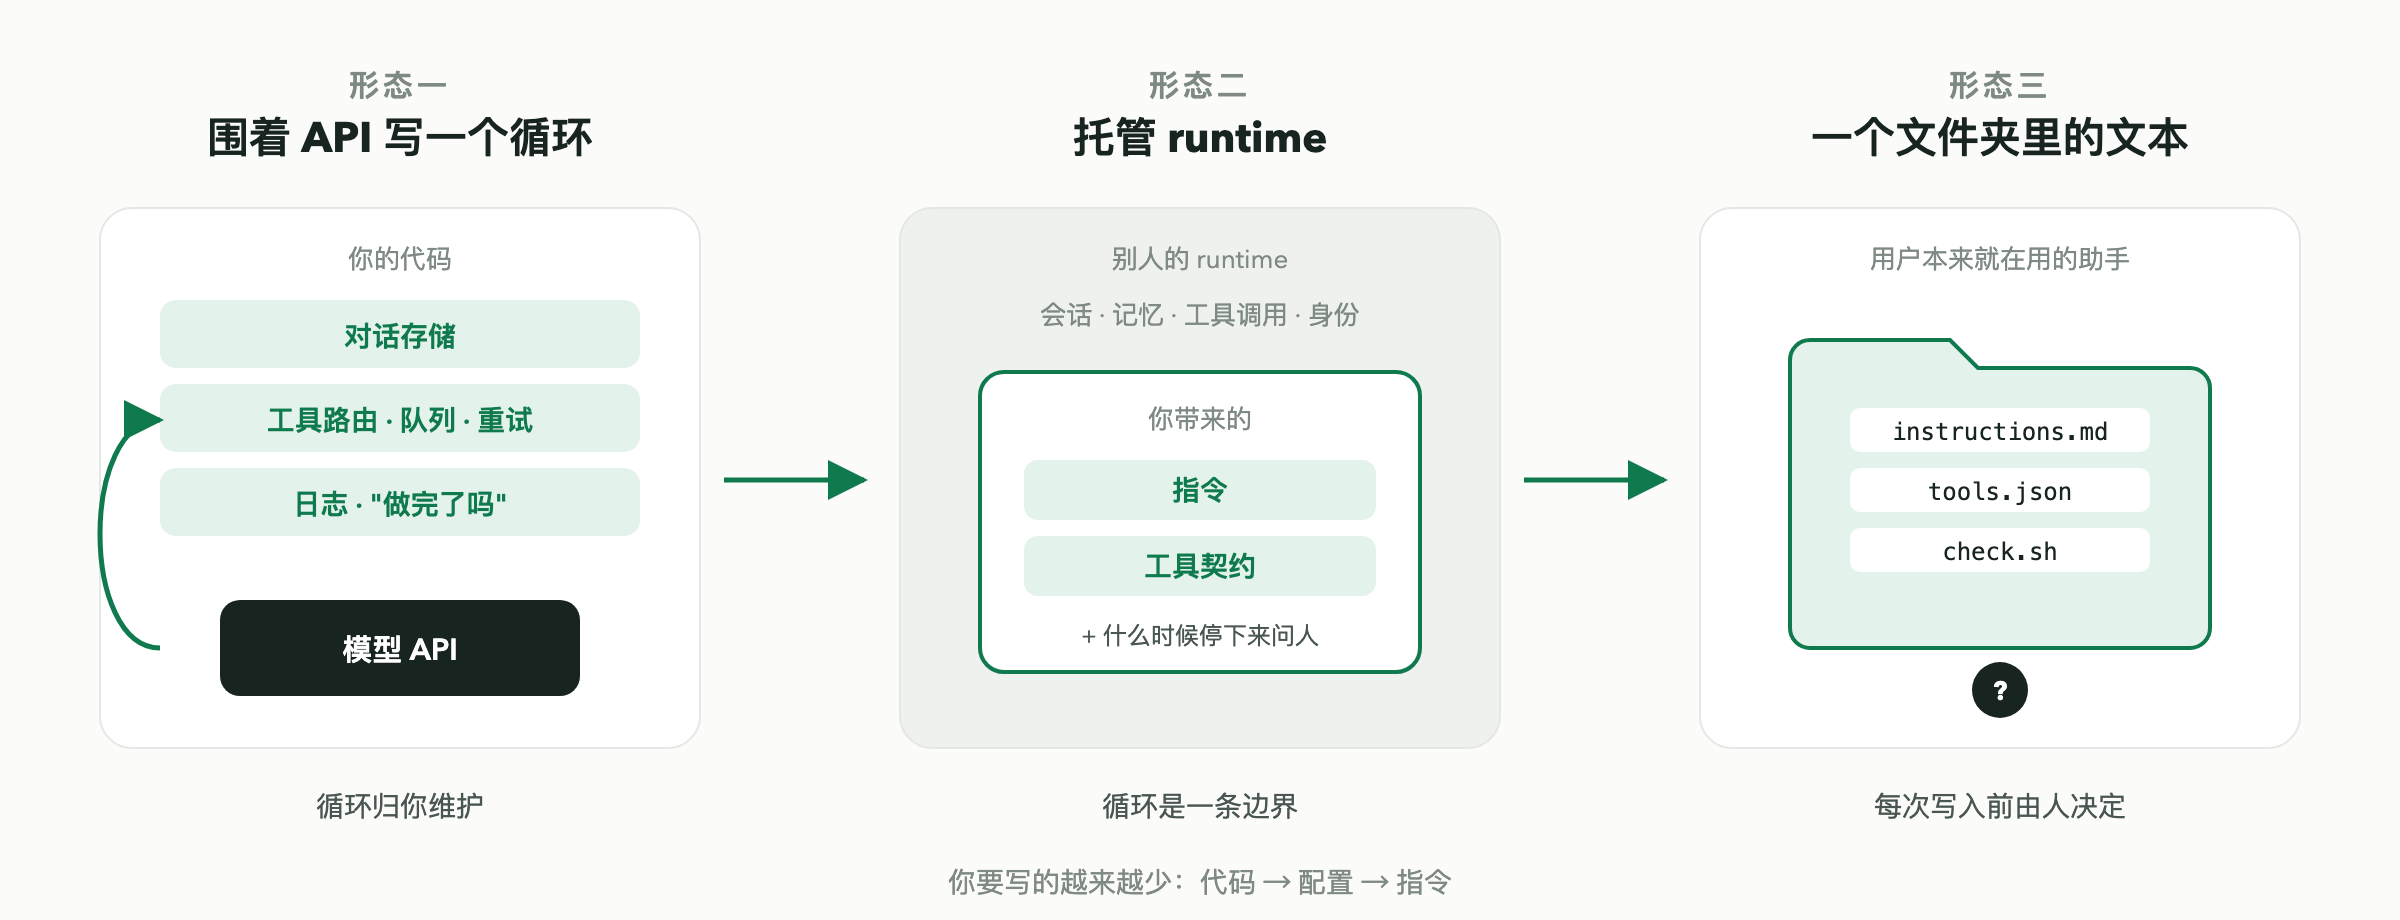
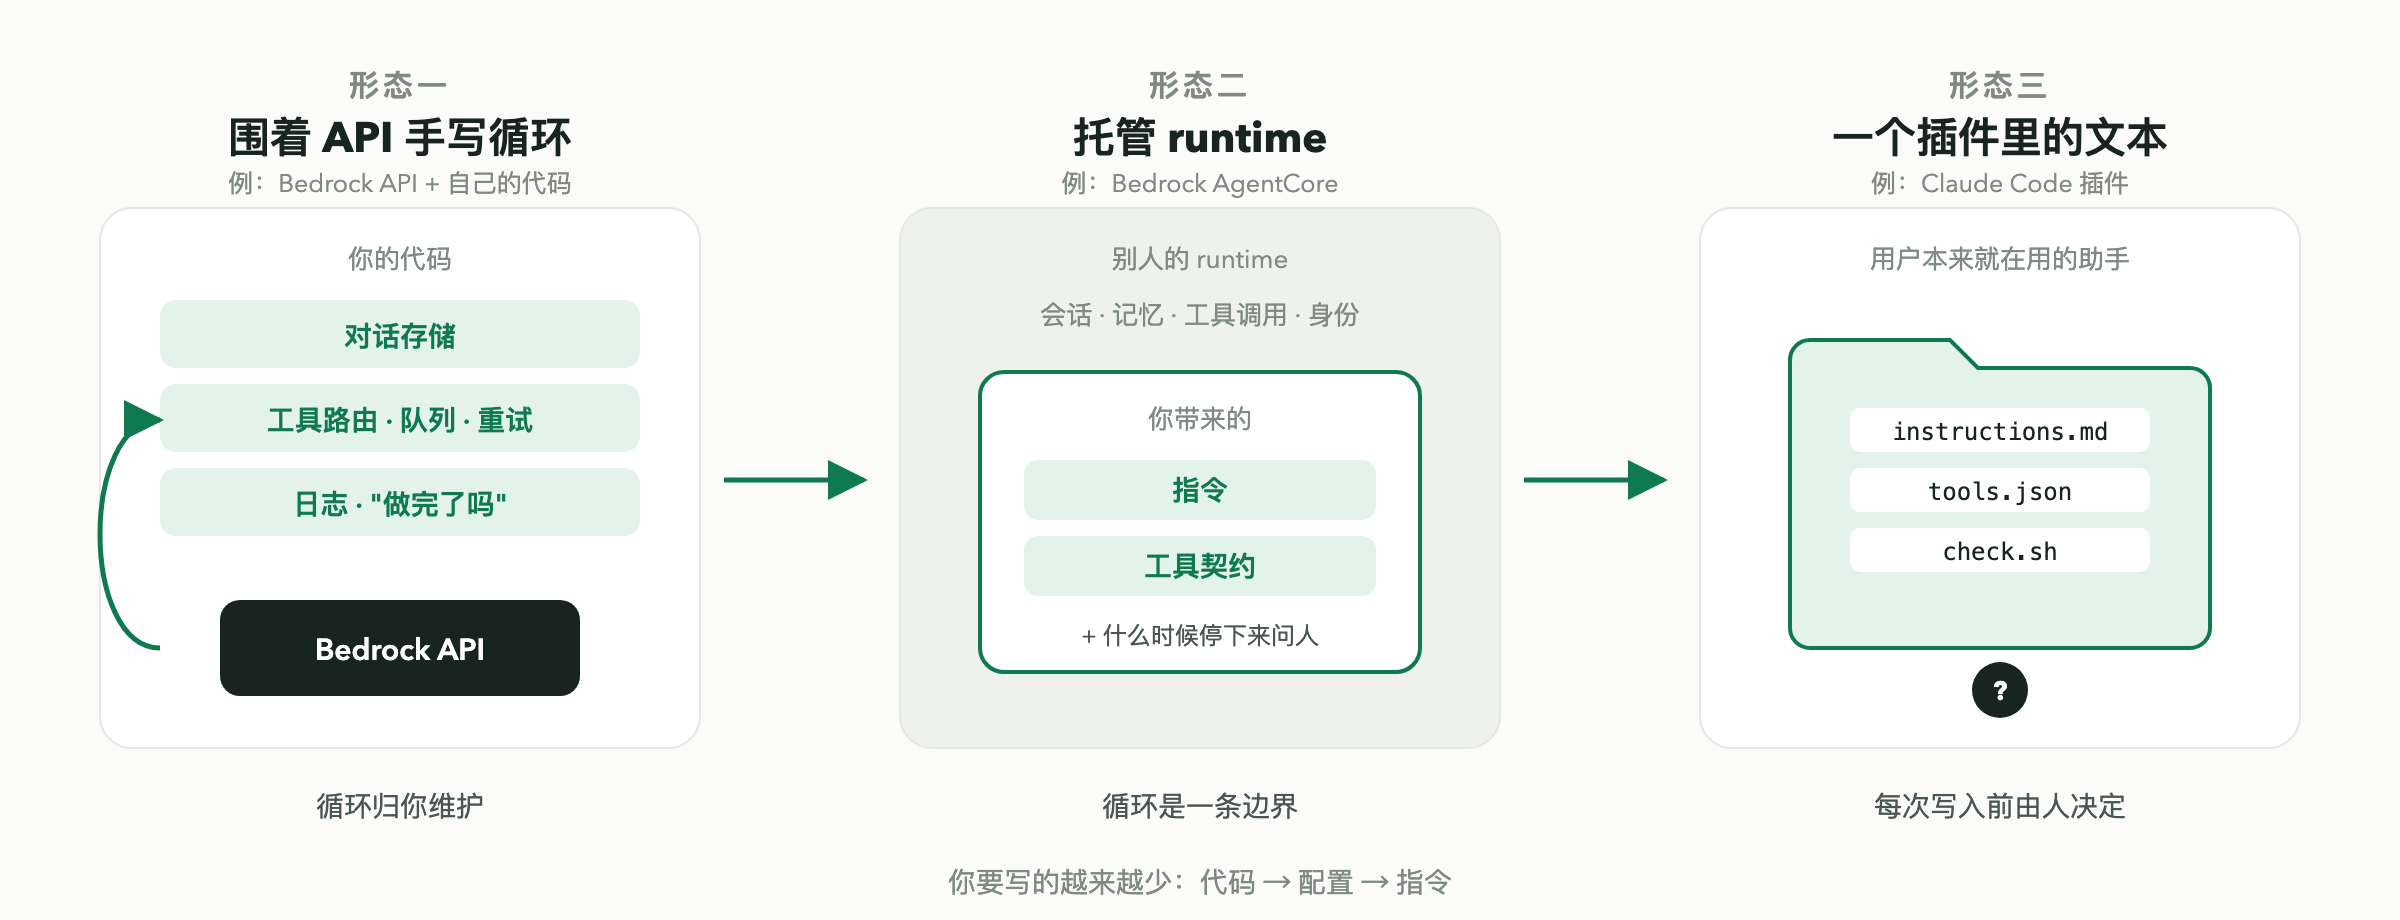
Three shapes: name the technologies (Bedrock API, AgentCore, Claude Code plugin, MCP) in text and diagrams

diff --git a/src/content/posts/en/three-shapes-of-an-agent.md b/src/content/posts/en/three-shapes-of-an-agent.md
@@ -1,23 +1,23 @@
 ---
 title: "Three shapes of an agent"
-description: "A year of building agents took me from a loop around a chat API, to a managed runtime, to a folder of text files. What each shape is good for, and the one thing that survived all three."
+description: "A year of building agents took me from a hand-written loop around the Bedrock API, to Bedrock AgentCore, to a Claude Code plugin that is mostly markdown. What each shape is good for, and the one thing that survived all three."
 date: 2026-09-24
 tags: [agents, architecture]
 cover: /img/three-shapes/cover.svg
 ---
 
-When I started building agents at work, the word meant one thing to me: call a model, read the answer, decide what to do next, call it again. Since then I have built the same kind of system three different ways, and the word has meant something different each time.
+When I started building agents at work, the word meant one thing to me: call a model, read the answer, decide what to do next, call it again. Since then I have built the same kind of system three ways: a loop we wrote ourselves around the Bedrock API, then on Bedrock AgentCore, then as a Claude Code plugin. Each time the word "agent" meant something different, and each time the part I wrote got smaller.
 
 This is the short version of what changed, and what I would keep.
 
 <figure>
-<a href="/img/three-shapes/cover.svg" target="_blank" rel="noopener"><img src="/img/three-shapes/cover.svg" alt="Three shapes: a hand-written loop around an API, a managed runtime that owns the loop, and a folder of text files loaded into an assistant the person already uses."></a>
+<a href="/img/three-shapes/cover.svg" target="_blank" rel="noopener"><img src="/img/three-shapes/cover.svg" alt="Three shapes: a hand-written loop around a model API, a managed runtime that owns the loop, and a folder of text files loaded into an assistant the person already uses."></a>
 <figcaption>Green is what you write. It shrinks from left to right.</figcaption>
 </figure>
 
-## Shape one: a loop around an API
+## Shape one: a loop around the model API
 
-The first system was a set of assistants living in a chat tool. One read a requirements document and pointed out gaps. One drafted a technical plan. One opened pull requests. Under the hood every one of them was the same thing: a stateless call to a model, wrapped in code we wrote ourselves.
+The first system was a set of assistants living in Slack. One read a requirements document and pointed out gaps. One drafted a technical plan. One opened pull requests. Under the hood every one of them was the same thing: a stateless call to a Claude model through the Bedrock API, wrapped in code we wrote ourselves.
 
 Stateless is the important word. The model remembers nothing between calls, cannot run a tool, and stops whenever it stops. So the code around it had to supply everything else:
 
@@ -30,19 +30,19 @@ Six months in, most of the repository was this runtime. The tasks the assistants
 
 ## Shape two: a managed runtime
 
-The second version moved the loop out of our code. A managed harness took over the parts we had written by hand: sessions, memory, tool calls, identity, and long-running work that survives a restart. What we brought was instructions, tool definitions, and a few opinions about when to stop and ask a person.
+The second version moved the loop out of our code and onto Bedrock AgentCore. The managed runtime took over the parts we had written by hand: sessions, memory, tool calls, identity, and long-running work that survives a restart. What we brought was instructions, tool definitions, and a few opinions about when to stop and ask a person.
 
 The gain showed up in the diff first. The runtime folder shrank to almost nothing.
 
 What surprised me was where the effort went instead. With no loop left to tune, the quality of the whole system came down to two things: how well the instructions were written, and how honest the tool contracts were. A tool that said "returns the issue" but sometimes returned a stub used to be a plumbing bug. Now it was a bug in the agent's judgement, because the agent believed it.
 
-The cost was a boundary. When something went wrong we debugged through someone else's abstractions, and the state lived in someone else's store. You accept that trade when the loop is the least interesting part of what you are building. For us it was.
+The cost was a boundary. When something went wrong we debugged through AWS abstractions, and the state lived in an AWS store. You accept that trade when the loop is the least interesting part of what you are building. For us it was.
 
 ## Shape three: a folder of text files
 
-The third one I would not have predicted. An agent that helps engineers plan and write tests, shipped as a plugin to the coding assistant they already had open, with no service behind it. A folder of markdown files with instructions, a list of tools it may call, and a couple of scripts. The runtime is the assistant on the person's laptop. The credentials are the person's own.
+The third one I would not have predicted. An agent that helps engineers plan and write tests, shipped as a Claude Code plugin, so it runs inside the coding assistant they already had open. No service behind it, no queue. A folder of markdown files with instructions, a list of MCP tools it may call, and a couple of scripts. The runtime is Claude Code on the person's laptop. The credentials are the person's own.
 
-That changes what "deploy" means. A new version is a version bump. Permissions are whatever the user already has, no more. And because a person is sitting right there, the agent can stop and ask before every write to a shared system, which for shared systems is exactly the behaviour you want.
+That changes what "deploy" means. A new version is a version bump in the plugin marketplace. Permissions are whatever the user already has, no more. And because a person is sitting right there, the agent can stop and ask before every write to a shared system, which for shared systems is exactly the behaviour you want.
 
 It also changes what the agent cannot do. It does not run at night. It cannot pick up a ticket on its own. It is exactly as autonomous as a conversation, which is to say not at all.
 
@@ -53,10 +53,11 @@ It also changes what the agent cannot do. It does not run at night. It cannot pi
 
 ## Side by side
 
-| | Loop around an API | Managed runtime | Folder of text files |
+| | Loop around the API | Managed runtime | Plugin of text files |
 |---|---|---|---|
-| Who runs the loop | your code | the harness | the assistant on the laptop |
-| Where state lives | your database | their store | the conversation |
+| Example | Bedrock API + your code | Bedrock AgentCore | Claude Code plugin |
+| Who runs the loop | your code | the runtime | the assistant on the laptop |
+| Where state lives | your database | the runtime's store | the conversation |
 | What you write | code | instructions + tool contracts | instructions + tool contracts + a few scripts |
 | How you ship | deploy a service | update instructions | bump a version |
 | Whose credentials | a service account | a service account or the runtime's identity | the person's own |
@@ -66,7 +67,7 @@ It also changes what the agent cannot do. It does not run at night. It cannot pi
 
 ## What I keep from all three
 
-Line them up and one thing stands out. The part I wrote got smaller and more like prose each time: code, then configuration, then instructions. The instructions and the tool contracts outlived every loop, and they moved between shapes almost unchanged because we had kept them as plain text.
+Line them up and one thing stands out. The part I wrote got smaller and more like prose each time: code, then configuration, then instructions. The instructions and the tool contracts outlived every loop, and they moved between Bedrock, AgentCore and Claude Code almost unchanged because we had kept them as plain text.
 
 <div class="callout">
 <p><strong>The rule I use now:</strong> write the agent as text first, choose the runtime last.</p>

diff --git a/src/content/posts/zh/three-shapes-of-an-agent.md b/src/content/posts/zh/three-shapes-of-an-agent.md
@@ -1,25 +1,25 @@
 ---
-title: "Agent 的三种形态：写了一年，我写的东西越来越少"
-description: "同一类 Agent，我先后用三种方式做过：自己围着模型 API 手写循环、交给托管 runtime、最后缩成一个文件夹里的几份 markdown。三种形态各自解决什么、卡在哪，以及唯一一样三次都没变的东西。"
+title: "Agent 的三种形态：从 Bedrock API 到 AgentCore 再到 Claude Code 插件"
+description: "同一类 Agent，我一年里用三种方式做过：围着 Bedrock API 手写循环、迁到 Bedrock AgentCore、最后缩成一个 Claude Code 插件里的几份 markdown。三种形态各自解决什么、卡在哪，以及唯一三次都没变的东西。"
 date: 2026-09-24
 tags: [agents, architecture]
 cover: /img/three-shapes/cover.zh.svg
 ---
 
-先说结论：过去一年，我做 Agent 的方式换了三次，每换一次，自己写的东西就少一截。从代码，到配置，到最后只剩几份说明文档。循环、状态、重试这些当初觉得是"核心"的部分，一个也没留下。留下来的是指令和工具契约。
+先说结论：过去一年，我做 Agent 的方式换了三次。第一版围着 Bedrock 的模型 API 自己写循环，第二版迁到 Bedrock AgentCore，第三版做成了 Claude Code 插件。每换一次，自己写的东西就少一截：从代码，到配置，到最后只剩几份 markdown。循环、状态、重试这些当初以为是"核心"的部分，一个也没留下。留下来的是指令和工具契约。
 
 下面把三种形态摊开讲，各自适合什么场景，最后给一条我现在的选型规则。
 
 <figure>
-<a href="/img/three-shapes/cover.zh.svg" target="_blank" rel="noopener"><img src="/img/three-shapes/cover.zh.svg" alt="三种形态：自己写循环、托管 runtime、一个文件夹里的文本。绿色部分是你要写的，从左到右越来越少。"></a>
+<a href="/img/three-shapes/cover.zh.svg" target="_blank" rel="noopener"><img src="/img/three-shapes/cover.zh.svg" alt="三种形态：自己写循环、托管 runtime、装进用户已有助手里的一个文件夹。绿色是你要写的部分，从左到右越来越少。"></a>
 <figcaption>绿色是你要写的部分，从左到右越来越少。</figcaption>
 </figure>
 
-## 形态一：围着 API 手写一个循环
+## 形态一：围着模型 API 手写一个循环
 
 刚开始做的时候，我对 Agent 的理解就是一个 while 循环：调模型 → 看回答 → 决定下一步 → 再调。
 
-第一套系统是挂在聊天工具里的一组助手。读 PRD 挑漏洞的、起草技术方案的、直接开 PR 的，各干各的。但底层其实是同一个东西：对模型的一次无状态调用，外面裹着我们自己写的一层代码。
+第一套系统是挂在 Slack 里的一组助手。读 PRD 挑漏洞的、起草技术方案的、直接开 PR 的，各干各的。但底层其实是同一个东西：通过 Bedrock API 对 Claude 的一次无状态调用，外面裹着我们自己写的一层代码。
 
 问题就出在"无状态"三个字。模型两次调用之间什么都不记得，不会自己调工具，想停就停。它不管的事，全得我们自己兜底：
 
@@ -32,21 +32,21 @@ cover: /img/three-shapes/cover.zh.svg
 
 ## 形态二：把循环交给托管 runtime
 
-第二版直接把循环搬出了我们的代码。用了一个托管的 Agent runtime，之前手写的那一套它全包：会话、记忆、工具调用、身份、重启后还能接着跑的长任务。我们只需要带三样东西过去：指令、工具定义，以及几条"什么时候该停下来问人"的规矩。
+第二版把循环整个搬出我们的代码，迁到了 Bedrock AgentCore 上。之前手写的那一套它全包：会话、记忆、工具调用、身份、重启后还能接着跑的长任务。我们只需要带三样东西过去：指令、工具定义，以及几条"什么时候该停下来问人"的规矩。
 
 收益在 diff 里一眼可见，runtime 目录基本清空。
 
 但精力并没有省下来，只是换了地方。循环没得调了，整套系统的好坏就只取决于两件事：指令写得清不清楚，工具契约老不老实。举个例子，有个工具声称"返回工单详情"，但偶尔会返回一个空壳。以前这算管道 bug，修一下解析就完了；现在它变成了 Agent 的判断错误，因为 Agent 就是照着这个返回值往下推理的。
 
-代价是多了一条边界。出问题要透过别人的抽象去查，状态在别人的存储里。如果循环本身不是你产品的核心，这个交换是值的。对我们来说，确实不是。
+代价是多了一条边界。出问题要透过 AWS 的抽象去查，状态存在 AWS 那边。如果循环本身不是你产品的核心，这个交换是值的。对我们来说，确实不是。
 
-## 形态三：一个文件夹里的几份文本
+## 形态三：一个插件里的几份文本
 
 第三种是我之前完全没料到的。
 
-一个帮工程师做测试规划和写测试代码的 Agent，没有部署成服务，而是做成了一个插件，装进大家本来就开着的编码助手里。没有服务器，没有队列。整个 Agent 就是一个文件夹：几份 markdown 写指令，一张它允许调用的工具清单，再加一两个脚本。runtime 就是用户笔记本上的那个助手，凭据就是用户自己的。
+一个帮工程师做测试规划、写测试代码的 Agent，没有部署成服务，而是做成了 Claude Code 插件，直接跑在大家本来就开着的编码助手里。没有服务器，没有队列。整个 Agent 就是一个文件夹：几份 markdown 写指令，一张它允许调用的 MCP 工具清单，再加一两个脚本。runtime 就是用户笔记本上的 Claude Code，凭据就是用户自己的。
 
-"部署"的定义随之改变。发新版就是升个版本号。权限不用单独申请，用户有什么它就有什么，一分不多。最关键的是人就坐在旁边，所以它在每一次写入共享系统之前都可以停下来问一句"这样改，可以吗"。对共享系统来说，这正是你想要的。
+"部署"的定义随之改变。发新版就是在插件 marketplace 里升个版本号。权限不用单独申请，用户有什么它就有什么，一分不多。最关键的是人就坐在旁边，所以它在每一次写入共享系统之前都可以停下来问一句"这样改，可以吗"。对共享系统来说，这正是你想要的。
 
 它做不到的事也很明确：不会夜里自动跑，不会自己去领工单。自主程度和一场对话相当，也就是零。
 
@@ -57,8 +57,9 @@ cover: /img/three-shapes/cover.zh.svg
 
 ## 三种形态并排比
 
-| | 自己写循环 | 托管 runtime | 文件夹里的文本 |
+| | 手写循环 | 托管 runtime | 插件里的文本 |
 |---|---|---|---|
+| 例子 | Bedrock API + 自己的代码 | Bedrock AgentCore | Claude Code 插件 |
 | 循环谁跑 | 你的代码 | runtime | 用户本地的助手 |
 | 状态在哪 | 你的数据库 | runtime 的存储 | 对话本身 |
 | 你写什么 | 代码 | 指令 + 工具契约 | 指令 + 工具契约 + 几个脚本 |
@@ -70,7 +71,7 @@ cover: /img/three-shapes/cover.zh.svg
 
 ## 唯一没变的东西
 
-三种形态排成一行，最明显的一点是：我写的部分一次比一次少，也一次比一次更像"文字"而不是"代码"。指令和工具契约这两样东西，比任何一个循环都活得久，而且因为一直是纯文本，三次迁移基本原样搬过去。
+三种形态排成一行，最明显的一点是：我写的部分一次比一次少，也一次比一次更像"文字"而不是"代码"。指令和工具契约这两样东西，比任何一个循环都活得久。从 Bedrock 到 AgentCore 再到 Claude Code，三次迁移它们基本原样搬过去，因为一直是纯文本。
 
 <div class="callout">
 <p><strong>我现在的选型规则：先把 Agent 写成文本，最后再挑 runtime。</strong></p>
